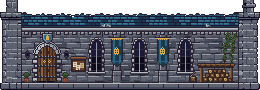
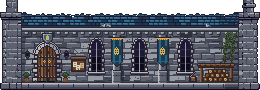
Lanternhold look 2, stage 5: the castle's fronts at the town's level (chapel and kitchen repainted inside their old silhouettes by tools/frontart.py: dressed stone, lit buttresses, lancets with hoods and sills, a timbered kitchen storey with shutters, slate roofs with a lit slope; hallFront relit in

diff --git a/games/lanternhold/tools/frontart.py b/games/lanternhold/tools/frontart.py
@@ -1,0 +1,329 @@
+#!/usr/bin/env python3
+"""Lanternhold art pass (look 2; ART-look2.md section 17): the castle's chapel and kitchen fronts, repainted at the
+town's level (tools/townart.py's vocabulary) inside their old silhouettes. Pure python on pixelart.py's Image; palette
+colours only; no randomness (hashes of the position), so a run reproduces its files byte for byte.
+
+  frontart.py repaint <chapel|kitchen> <sprite.png>     in place
+
+The sprite on disk (the Recraft conversion of build-art.sh) gives only the silhouette: every opaque pixel is painted
+anew, no transparent one is touched, so chapelInterior and kitchenInterior (roomscenes.py paints them inside the
+fronts' silhouettes) keep their outlines. The window glass (night1) stays inside the masks of ART-court.md: the
+chapel's lancets x 24-33, 60-69, 95-104 (rows 53-76) and 129-137 (rows 53-75), the kitchen's panes x 30-32, 34-36 and
+84-86, 88-90 (rows 41-43, 45-47). Albedo only, the light from the upper left: lit left edges and roof slopes, a cast
+shadow under every eave and beside every buttress, the right end a step darker, look 2's selective outline (ink only
+at the right and at the ground).
+"""
+import os
+import sys
+
+sys.path.insert(0, os.path.dirname(os.path.abspath(__file__)))
+import pixelart as PA  # noqa: E402
+import worldart as WA  # noqa: E402
+import townart as TA  # noqa: E402
+
+col, h01 = WA.col, WA.h01
+px, rect = TA.px, TA.rect
+DOWN = {"stonePale": "stoneLight", "stoneLight": "stone", "stone": "stoneMid", "stoneMid": "stoneDark",
+        "plaster": "plasterDim", "parchment": "plaster", "roofLight": "banner", "banner": "roofDeep",
+        "woodLight": "wood", "wood": "woodDark"}
+
+
+def opaque(im, x, y):
+    return 0 <= x < im.w and 0 <= y < im.h and im.get(x, y)[3] != 0
+
+
+def span(src, y, x0=0, x1=None):
+    """The first and the last opaque column of the silhouette's row y between x0 and x1."""
+    xs = [x for x in range(x0, (src.w - 1 if x1 is None else x1) + 1) if opaque(src, x, y)]
+    return (xs[0], xs[-1]) if xs else (x0, x0 - 1)
+
+
+def darker(im, x0, y0, x1, y1):
+    """A cast shadow: every stone, plaster, slate and wood pixel of the box one step down its ramp."""
+    names = {col(a): b for a, b in DOWN.items()}
+    for y in range(y0, y1 + 1):
+        for x in range(x0, x1 + 1):
+            if 0 <= x < im.w and 0 <= y < im.h and im.get(x, y) in names:
+                im.set(x, y, col(names[im.get(x, y)]))
+
+
+def ashlar(im, x0, y0, x1, y1, seed, ch=5, wmin=7, wmax=12, body=("stone", "stoneLight", "stoneMid")):
+    """Dressed stone: courses ch rows high (the last row the bed joint), blocks wmin to wmax px, staggered; a block's
+    top row lit, its foot row a step darker at the right, head joints dark."""
+    B, L, D = body
+    for y in range(y0, y1 + 1):
+        k, r = (y - y0) // ch, (y - y0) % ch
+        off = int(h01(seed, k, 1) * wmax)
+        for x in range(x0, x1 + 1):
+            sx = x + off
+            n = sx // wmax
+            bw = wmin + int(h01(seed, k, n, 2) * (wmax - wmin + 1))
+            i = sx % wmax
+            v = h01(seed, k, n, 3)
+            face = B if v < 0.62 else L if v < 0.84 else D
+            c = face
+            if r == ch - 1:
+                c = "stoneMid" if h01(seed, k, x // 6, 4) < 0.75 else "stoneDark"
+            elif i == 0 or i == bw:
+                c = "stoneDark" if h01(seed, k, n, i, 5) < 0.6 else "stoneMid"
+            elif r == 0 and i < bw - 2:
+                c = {B: L, L: "stonePale", D: B}[face]
+            elif r == ch - 2 and i > bw // 2:
+                c = {B: D, L: B, D: D}[face]
+            px(im, x, y, c)
+
+
+def lancet(im, x0, x1, y0, y1):
+    """A pointed window whose glass lies in the box x0..x1, y0..y1 (night1): dressed jambs with quoins, a pointed
+    hood, two saddle bars (stoneDark: they stay dark in a lit window), a pale sill over its shadow."""
+    for y in range(y0, y1 + 1):
+        k = y - y0
+        a, b = x0 + max(0, 4 - k), x1 - max(0, 4 - k)
+        rect(im, a, y, b, y, "stoneDark" if k in (10, 17) else "night1")
+        q = k > 5 and (k // 3) % 2 == 0
+        rect(im, a - (2 if q else 1), y, a - 1, y, "stonePale")
+        rect(im, b + 1, y, b + (2 if q else 1), y, "stoneLight")
+        if k <= 4:                                                   # the hood follows the point
+            px(im, a - 1, y - 1, "stonePale")
+            px(im, b + 1, y - 1, "stoneLight")
+    rect(im, x0 + 4, y0 - 1, x1 - 4, y0 - 1, "stonePale")
+    rect(im, x0 - 2, y1 + 1, x1 + 2, y1 + 1, "stonePale")
+    px(im, x1 + 2, y1 + 1, "stoneLight")
+    rect(im, x0 - 1, y1 + 2, x1 + 2, y1 + 2, "stoneDark")
+
+
+def buttress(im, x, seed, top=49, step=60, foot=94):
+    """A two-stage buttress: the lower stage's lit face x..x+4 and its shaded side x+5..x+9, the upper stage set back
+    (face x+3..x+7, side x+8, x+9) under sloped weatherings of pale stone."""
+    for y in range(top, foot + 1):
+        up = y < step
+        f0, f1, s1 = (x + 3, x + 7, x + 9) if up else (x, x + 4, x + 9)
+        joint = (y - top) % 5 == 4
+        for xx in range(f0, f1 + 1):
+            v = h01(seed, xx // 3, (y - top) // 5)
+            c = "stonePale" if xx == f0 else "stoneLight" if v < 0.7 else "stone"
+            if joint:
+                c = "stoneLight" if xx == f0 else "stone"
+            px(im, xx, y, c)
+        for xx in range(f1 + 1, s1 + 1):
+            px(im, xx, y, "stoneDark" if joint else "stoneMid")
+    for i in range(3):                                               # the weatherings
+        rect(im, x + i, step - 3 + i, x + 3, step - 3 + i, "stonePale")
+        rect(im, x + 3 + i, top - 3 + i, x + 6, top - 3 + i, "stonePale")
+        px(im, x + 7, top - 3 + i, "stoneLight")
+    rect(im, x + 4, step - 1, x + 9, step - 1, "stoneLight")
+    darker(im, x + 10, top, x + 11, foot)                            # its cast shadow on the wall
+
+
+def finish(im, src, fill="stone"):
+    """Clip to the old silhouette (an unpainted opaque pixel takes `fill`), then look 2's selective outline: ink where
+    the body ends at the right and at the ground."""
+    ink = col("ink")
+    for y in range(im.h):
+        for x in range(im.w):
+            if not opaque(src, x, y):
+                im.set(x, y, (0, 0, 0, 0))
+            elif im.get(x, y)[3] == 0:
+                im.set(x, y, col(fill))
+    for y in range(im.h):
+        for x in range(im.w):
+            if opaque(src, x, y) and (not opaque(src, x + 1, y) or not opaque(src, x, y + 1)):
+                im.set(x, y, ink)
+    return im
+
+
+# --- the chapel of the Flame (160x96) ---------------------------------------------------------------------------------
+def chapel(src):
+    im = PA.Image(160, 96)
+    seed = 211
+    # the nave's wall, the west corner beside the roof's end, the plinth
+    ashlar(im, 2, 37, 158, 94, seed)
+    darker(im, 6, 47, 114, 48)                                       # the eave's cast shadow
+    rect(im, 2, 90, 158, 90, "stonePale")
+    for x in range(2, 159):
+        for y in range(91, 95):
+            px(im, x, y, "stoneDark" if x % 13 == 5 else "stone" if y < 93 else "stoneMid")
+        if h01(seed, x // 2, 7) < 0.14:
+            px(im, x, 94, "leafDark")
+            px(im, x, 93, "leaf" if h01(seed, x, 8) < 0.5 else "leafDark")
+    for x0, x1 in ((24, 33), (60, 69), (95, 104)):
+        lancet(im, x0, x1, 53, 76)
+    for i, x in enumerate((7, 41, 77, 111)):
+        buttress(im, x, seed + i)
+    # the gabled bay at the right: its wall, the lancet, the Flame's gilded emblem, the door, the corner buttress
+    ashlar(im, 116, 23, 158, 89, seed + 9, wmin=6, wmax=10)
+    darker(im, 144, 23, 158, 89)
+    for y in range(61, 95):                                          # the right corner's buttress
+        j = (y - 61) % 5 == 4
+        rect(im, 146, y, 150, y, "stone" if j else "stoneLight")
+        px(im, 146, y, "stonePale")
+        rect(im, 151, y, 158, y, "stoneDark" if j else "stoneMid")
+    for i in range(3):
+        rect(im, 146 + i, 58 + i, 150, 58 + i, "stonePale")
+    lancet(im, 129, 137, 53, 75)
+    for y, (a, b) in zip(range(35, 43), ((133, 133), (133, 133), (132, 134), (132, 134), (131, 135), (131, 135),
+                                         (131, 135), (132, 134))):
+        rect(im, a - 2, y, b + 2, y, "stoneMid")
+        rect(im, a, y, b, y, "gold")
+        px(im, a, y, "strawLight")
+    rect(im, 132, 43, 134, 43, "stoneDark")
+    px(im, 133, 40, "tileLight"); px(im, 133, 41, "tileLight")
+    for y in range(80, 95):                                          # a pointed oak door in a dressed arch
+        k = y - 80
+        a, b = 128 + max(0, 4 - 2 * k), 138 - max(0, 4 - 2 * k)
+        rect(im, a - 2, y, a - 1, y, "stonePale" if (k // 3) % 2 else "stoneLight")
+        rect(im, b + 1, y, b + 2, y, "stoneLight" if (k // 3) % 2 else "stone")
+        for x in range(a, b + 1):
+            px(im, x, y, ("woodLight", "wood", "wood", "woodDark")[(x - 128) % 4])
+        if k < 3:
+            rect(im, a - 1, y - 1, b + 1, y - 1, "stonePale")
+    for y in (85, 91):
+        rect(im, 128, y, 138, y, "stoneMid")
+        px(im, 129, y, "stoneLight"); px(im, 137, y, "stoneLight")
+    rect(im, 133, 82, 133, 94, "woodDark")
+    px(im, 135, 88, "gold"); px(im, 131, 88, "gold")
+    rect(im, 126, 94, 140, 94, "stoneLight")
+    # the nave's roof: teal slate, its lit slope, the gable's rake before its right end
+    xl = lambda y: 40 if y <= 36 else int(round(30 - (y - 37) * 1.75))   # noqa: E731
+    xr = lambda y: int(round(127 - (y - 27) * 12 / 19.0))                # noqa: E731
+    TA.roof(im, 27, 46, xl, xr, TA.SLATE, "slate", seed, mid=0.6, shade=9)
+    for y in range(23, 47):                                          # the gable's coping
+        a = xr(y) + 1 if y >= 27 else span(src, y, 110)[0]
+        b = span(src, y, 110)[1]
+        rect(im, a, y, a + 1, y, "stonePale")
+        px(im, a + 2, y, "stoneLight")
+        rect(im, b - 2, y, b, y, "stoneLight")
+    # the bell tower: a lit front, a shaded side, louvred openings, the string courses
+    ashlar(im, 13, 16, 26, 36, seed + 3, ch=4, wmin=5, wmax=8)
+    ashlar(im, 27, 16, 39, 36, seed + 4, ch=4, wmin=5, wmax=8, body=("stoneMid", "stone", "stoneDark"))
+    rect(im, 15, 17, 15, 36, "stonePale")
+    for y in range(18, 28):
+        k = y - 18
+        a, b = 19 + max(0, 2 - k), 25 - max(0, 2 - k)
+        rect(im, a, y, b, y, "night1" if k % 2 == 0 or k < 2 else "stoneDark")
+        px(im, a - 1, y, "stonePale"); px(im, b + 1, y, "stoneLight")
+        if k < 3:
+            px(im, a, y - 1, "stonePale"); px(im, b, y - 1, "stonePale")
+        if y >= 21:
+            rect(im, 31, y, 34, y, "night1" if k % 2 == 0 else "ink")
+            px(im, 30, y, "stone"); px(im, 35, y, "stoneDark")
+    rect(im, 21, 17, 23, 17, "stonePale")
+    rect(im, 31, 20, 34, 20, "stone")
+    rect(im, 14, 28, 26, 28, "stonePale"); rect(im, 27, 28, 40, 28, "stone")
+    rect(im, 14, 29, 40, 29, "stoneDark")
+    rect(im, 14, 16, 26, 16, "stoneMid"); rect(im, 27, 16, 40, 16, "stoneDark")
+    # the spire: its lit and its shaded face, the broach's eave, a gilded finial
+    E, S, D, B, L = TA.SLATE
+    for y in range(0, 16):
+        a, b = span(src, y, 0, 45)
+        ridge = 29 + y // 3
+        for x in range(a, b + 1):
+            v, r = h01(seed, x // 3 + (y // 3) % 2, y // 3, 6), y % 3
+            if y >= 13:
+                c = (L if x < ridge else B) if y == 13 else (B if x < ridge else D) if y == 14 else E
+            elif x < ridge:
+                c = L if r == 0 and v < 0.6 else D if r == 2 else B
+            else:
+                c = B if r == 0 and v < 0.35 else S if r == 2 else D
+            px(im, x, y, c)
+        px(im, a, y, L)
+    px(im, 27, 0, "gold"); px(im, 27, 1, "gold"); px(im, 26, 1, "strawLight")
+    rect(im, 0, 95, 159, 95, "ink")
+    return finish(im, src)
+
+
+# --- the castle kitchen (120x80) --------------------------------------------------------------------------------------
+def kitchen(src):
+    im = PA.Image(120, 80)
+    seed = 131
+    # the ground floor of grey stone under the jetty, its plinth, the arched double door
+    TA.rubble(im, 6, 58, 113, 79, seed, eave=3)
+    TA.fieldstone(im, 6, 75, 113, 78, seed)
+    rect(im, 6, 57, 113, 57, "ink")
+    for x in range(10, 112, 12):
+        px(im, x, 57, "wood"); px(im, x + 1, 57, "woodDark")
+        px(im, x, 58, "woodDark")
+    for y in range(63, 80):
+        k = y - 63
+        a, b = 54 + max(0, 3 - k) * 2, 70 - max(0, 3 - k) * 2
+        if k:
+            rect(im, a - 2, y, a - 1, y, "stonePale" if (k // 3) % 2 else "stoneLight")
+            rect(im, b + 1, y, b + 2, y, "stoneLight" if (k // 3) % 2 else "stone")
+        if k < 4:
+            for x in range(a, b + 1):
+                px(im, x, y - 1 if k else y, "stonePale" if (x // 3) % 2 else "stoneLight")
+        if k:
+            for x in range(a, b + 1):
+                px(im, x, y, ("woodLight", "wood", "wood", "woodDark")[(x - 54) % 4])
+    rect(im, 62, 64, 62, 79, "woodDark")
+    for y in (68, 75):
+        rect(im, 54, y, 70, y, "stoneMid")
+        px(im, 55, y, "stoneLight"); px(im, 69, y, "stoneLight")
+    px(im, 60, 72, "stonePale"); px(im, 64, 72, "stonePale")
+    px(im, 60, 73, "stoneMid"); px(im, 64, 73, "stoneMid")
+    TA.barrel(im, 22, 78, w=6, h=8)
+    TA.barrel(im, 29, 78, w=5, h=6)
+    TA.woodpile(im, 82, 78, 6, 4)
+    TA.vine(im, 13, 61, 78, seed, w=3)
+    for x, c in ((40, "leaf"), (41, "meadow"), (42, "leaf"), (45, "leafDark"), (46, "leaf")):   # herb pots by the door
+        px(im, x, 75, c); px(im, x, 76, c if x % 2 else "leafDark")
+    rect(im, 40, 77, 42, 78, "tile"); rect(im, 45, 77, 46, 78, "tile")
+    px(im, 40, 77, "tileLight"); px(im, 45, 77, "tileLight")
+    darker(im, 98, 58, 113, 79)
+    # the jettied storey: plaster between oak posts, studs and braces, two shuttered windows over herb boxes
+    TA.plaster(im, 5, 36, 114, 53, seed + 1, shade_from=104, eave=2)
+    TA.beam(im, 5, 114, 36, h=1, lit=False)
+    for x in (5, 57, 111):
+        TA.post(im, x, 36, 53, w=4)
+    for x in (20, 44, 72, 98):
+        TA.post(im, x, 37, 53)
+    TA.brace(im, 18, 40, -1, 9); TA.brace(im, 101, 40, 1, 9)
+    TA.brace(im, 55, 40, -1, 8); TA.brace(im, 62, 40, 1, 8)
+    TA.window(im, 30, 41, 7, 7, shutters=TA.TEAL, box=True)
+    TA.window(im, 84, 41, 7, 7, shutters=TA.TEAL, box=True)
+    TA.jetty(im, 5, 114, 54)
+    # the hipped slate roof, its ridge knob, the big stack before it
+    xl = lambda y: span(src, y)[0]                                    # noqa: E731
+    xr = lambda y: span(src, y)[1]                                    # noqa: E731
+    TA.roof(im, 11, 35, xl, xr, TA.SLATE, "slate", seed, mid=0.55, shade=11)
+    E, S, D, B, L = TA.SLATE
+    rect(im, 21, 9, 28, 13, B)
+    rect(im, 21, 9, 27, 9, L); rect(im, 21, 9, 21, 13, L)
+    rect(im, 22, 13, 28, 13, D)
+    for y in range(0, 21):                                           # the stack: three capped flues on a stone body
+        a, b = span(src, y, 70) if y < 9 else (77, span(src, y, 70)[1])
+        for x in range(a, b + 1):
+            k, r = y // 4, y % 4
+            v = h01(seed + 5, k, (x + k * 3) // 6)
+            t = (x - a) / float(max(1, b - a))
+            c = "stoneLight" if v < 0.6 else "stone"
+            if r == 3 or (x + k * 3) % 6 == 0:
+                c = "stone" if r == 3 else "stoneMid"
+            if y == 0 or y == 9:
+                c = "stonePale"
+            if y in (6, 7):
+                c = "stoneMid" if y == 6 else "stoneDark"
+            if t > 0.66:
+                c = DOWN.get(c, c)
+            if x == a:
+                c = "stonePale"
+            px(im, x, y, c)
+    rect(im, 77, 21, 103, 21, "ink")
+    return finish(im, src)
+
+
+BUILD = {"chapel": chapel, "kitchen": kitchen}
+
+
+def main():
+    a = sys.argv[1:]
+    if len(a) != 3 or a[0] != "repaint" or a[1] not in BUILD:
+        raise SystemExit(__doc__)
+    src = PA.read_png(a[2])[0]
+    im = BUILD[a[1]](src)
+    PA.write_png(a[2], im)
+    print("repainted %s %dx%d" % (os.path.basename(a[2]), im.w, im.h))
+
+
+if __name__ == "__main__":
+    main()

diff --git a/games/lanternhold/tools/roomscenes.py b/games/lanternhold/tools/roomscenes.py
@@ -346,10 +346,17 @@ def hall_front():
     c.blit(interior, 239, 0, box=(239, 0, W - 1, H - 1))
     X0, X1 = 21, 238
     # the wall: dressed stone courses, lighter than the interior's back wall (outside, in daylight)
-    ashlar(c, X0, 32, X1, 82, seed=11, course=(6, 5), width=(10, 17), faces=("stone",) * 9 + ("stoneMid",),
-           deep_share=0.18, pits=0.02)
+    # (look 2, ART-look2.md section 17: the light from the upper left; no ink in the joints, the cornice's and the
+    # left end wall's cast shadows, the right end a step darker)
+    ashlar(c, X0, 32, X1, 82, seed=11, course=(6, 5), width=(10, 17),
+           faces=("stone",) * 5 + ("stoneLight",) * 4 + ("stoneMid",), deep="stoneDark", deep_share=0.18, pits=0.02)
+    down = {"stonePale": "stoneLight", "stoneLight": "stone", "stone": "stoneMid", "stoneMid": "stoneDark"}
+    c.recolour(X0, 32, X1, 36, down)
+    c.recolour(X0 + 1, 37, X0 + 3, 81, down)
+    c.recolour(X1 - 13, 37, X1, 81, down)
     # the roof: teal slate to the eave, the ridge tiles and iron cresting on top (the interior's beam ends)
     slate(c, X0, 17, X1, 26, seed=5, row=3, width=(4, 7))
+    c.recolour(X1 - 19, 17, X1, 26, {"roofLight": "banner", "banner": "roofDeep"})
     c.hline(X0, X1, 26, "roofDeep")
     for x in range(X0, X1 + 1):
         tops = [y for y in range(H) if (x, y) in c.clip]
@@ -370,30 +377,38 @@ def hall_front():
     c.hline(X0, X1, 28, "stonePale")
     c.hline(X0, X1, 29, "stoneLight")
     c.hline(X0, X1, 30, "stoneMid")
-    c.hline(X0, X1, 31, "ink")
+    c.hline(X0, X1, 31, "stoneDark")
     for x in range(X0 + 4, X1 - 3, 8):
         c.rect(x, 32, x + 2, 33, "stoneLight")
+        c.put(x, 32, "stonePale")
         c.put(x + 2, 33, "stone")
-        c.hline(x, x + 2, 34, "ink")
-        c.vline(x + 3, 32, 34, "ink")
-        c.vline(x - 1, 32, 34, "ink")
+        c.hline(x, x + 2, 34, "stoneDark")
+        c.vline(x + 3, 32, 34, "stoneDark")
     # the plinth
-    c.hline(X0, X1, 82, "ink")
+    c.hline(X0, X1, 82, "stoneDark")
     for x in range(X0, X1 + 1):
         c.put(x, 83, "stonePale")
         for y in range(84, 88):
-            c.put(x, y, "stone" if y < 87 else "stoneMid")
+            c.put(x, y, "stoneLight" if y == 84 else "stone" if y < 87 else "stoneMid")
         if (x - X0) % 15 == 7:
             for y in range(84, 88):
-                c.put(x, y, "ink")
+                c.put(x, y, "stoneDark")
         c.put(x, 88, "stoneMid")
+    c.recolour(X1 - 13, 83, X1, 88, down)
     c.hline(X0, X1, 89, "night0")
-    c.vline(X0, 17, 88, "ink")
-    c.vline(X1, 17, 88, "ink")
+    c.vline(X0, 17, 26, "ink")
+    c.vline(X1, 17, 26, "ink")
+    c.vline(X0, 27, 88, "stoneDark")
+    c.vline(X1, 27, 88, "stoneDark")
 
     # --- buttresses between the windows, the banners hung on them
     for bx in (113, 159):
         buttress(c, bx, 8, 35, 82, 70)
+        c.recolour(bx, 35, bx, 69, {"ink": "stonePale"})             # look 2: a lit left edge, a lit cap, no ink
+        c.recolour(bx - 1, 70, bx - 1, 82, {"ink": "stonePale"})
+        c.recolour(bx + 1, 35, bx + 6, 35, {"ink": "stoneLight"})
+        c.recolour(bx + 8, 36, bx + 9, 69, down)                     # and its cast shadow on the wall
+        c.recolour(bx + 9, 71, bx + 10, 81, down)
     banner(c, 111, 38, w=12, length=24)
     banner(c, 157, 38, w=12, length=24)
 
